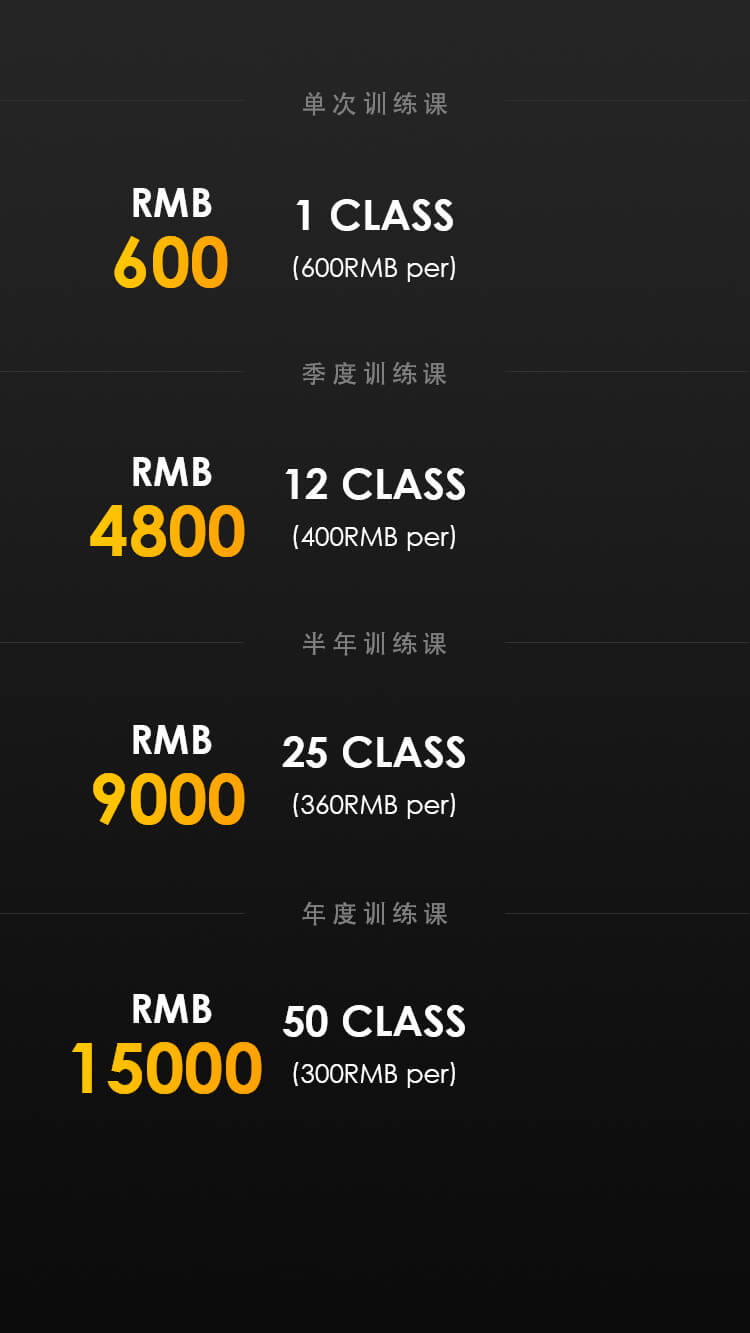
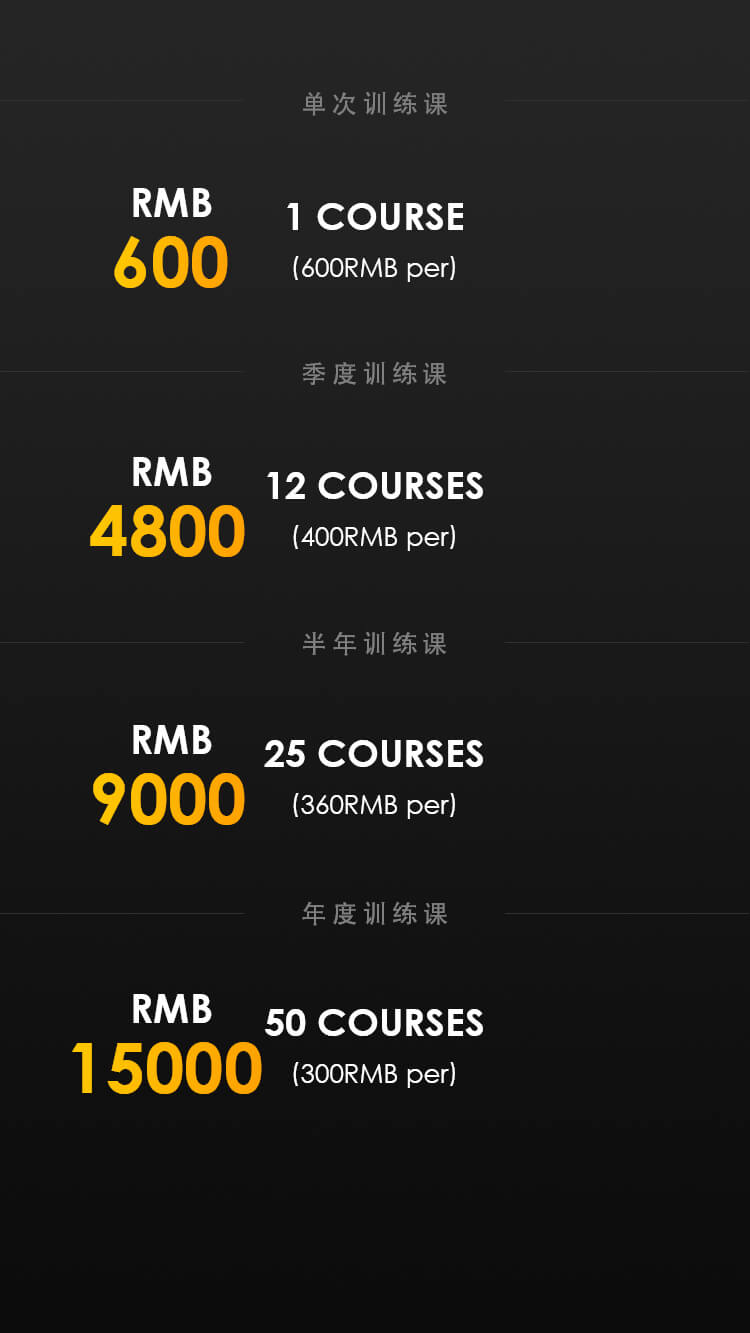
PCWeb

diff --git a/PCweb/20170817/index.html b/PCweb/20170817/index.html
@@ -179,12 +179,12 @@ if(!cv.getContext){
 							<div class="price">
 								<img src="images/600.png">
 							</div>
-							<div class="price-btn">
+							<div class="price-btn login">
 								APPLY
 							</div>
 						</div>
 						<div class="price-bottom">
-							1 CLASS(600RMB per)
+							1 COURSE(600RMB per)
 						</div>
 					</div>
 					<div class="course-item ci-2">
@@ -197,12 +197,12 @@ if(!cv.getContext){
 							<div class="price">
 								<img src="images/4800.png">
 							</div>
-							<div class="price-btn">
+							<div class="price-btn login">
 								APPLY
 							</div>
 						</div>
 						<div class="price-bottom">
-							12 CLASS(400RMB per)
+							12 COURSE(400RMB per)
 						</div>
 					</div>
 					<div class="course-item ci-3">
@@ -215,12 +215,12 @@ if(!cv.getContext){
 							<div class="price">
 								<img src="images/9000.png">
 							</div>
-							<div class="price-btn">
+							<div class="price-btn login">
 								APPLY
 							</div>
 						</div>
 						<div class="price-bottom">
-							25 CLASS(360RMB per)
+							25 COURSE(360RMB per)
 						</div>
 					</div>
 					<div class="course-item ci-4">
@@ -233,12 +233,12 @@ if(!cv.getContext){
 							<div class="price">
 								<img src="images/15000.png">
 							</div>
-							<div class="price-btn">
+							<div class="price-btn login">
 								APPLY
 							</div>
 						</div>
 						<div class="price-bottom">
-							50 CLASS(300RMB per)
+							50 COURSE(300RMB per)
 						</div>
 					</div>
 				</div>
@@ -417,9 +417,11 @@ if(!cv.getContext){
 				<div class="job-column">
 					<img src="images/job.png" class="img-set">
 				</div>
-				<div class="job-link-btn">
-					更多职位信息
-				</div>
+				<a href="http://mp.weixin.qq.com/s/rdeNVVxT6G7E5mMmqmum4w" target="_blank">
+					<div class="job-link-btn">
+						更多职位信息
+					</div>
+				</a>
 				<div class="note-msg">
 					更多职业机会请咨询ze@zplusfitness.com
 				</div>
@@ -498,7 +500,7 @@ if(!cv.getContext){
 	<div class="footer-wrapper">
 		<div class="left-icons">
 			<div class="footer-icon-item">
-				<a href="javascript:;">
+				<a href="javascript:;" class="login">
 					<img src="images/wechat.png">
 				</a>
 			</div>
@@ -508,12 +510,12 @@ if(!cv.getContext){
 				</a>
 			</div>
 			<div class="footer-icon-item">
-				<a href="javascript:;">
+				<a href="tel:02152381006">
 					<img src="images/tel.png">
 				</a>
 			</div>
 			<div class="footer-icon-item">
-				<a href="javascript:;">
+				<a href="mailto:ze@zplusfitness.com">
 					<img src="images/mail.png">
 				</a>
 			</div>
@@ -524,7 +526,7 @@ if(!cv.getContext){
 					ABOUT ZE
 				</div>
 				<div class="cn-item">
-					<a href="javascript:;">Z PLUS Fitness</a>
+					<a href="http://www.zplusfitness.com" target="_blank">Z PLUS Fitness</a>
 				</div>
 				<div class="cn-item">
 					<a href="javascript:;">一普学院</a>
@@ -535,7 +537,7 @@ if(!cv.getContext){
 					MEMBERSHIP SERVICE
 				</div>
 				<div class="cn-item">
-					<a href="javascript:;">会员登录</a>
+					<a href="javascript:;" class="login">会员登录</a>
 				</div>
 			</div>
 			<div class="footer-msg-column">
@@ -543,7 +545,7 @@ if(!cv.getContext){
 					CUSTOMER SERVICE
 				</div>
 				<div class="cn-item">
-					<a href="javascript:;">联系客服</a>
+					<a href="tel:02152381006">联系客服</a>
 				</div>
 				<div class="cn-item">
 					<a href="javascript:;">投诉与建议</a>
@@ -554,13 +556,13 @@ if(!cv.getContext){
 					CAREER IN ZE SPEED
 				</div>
 				<div class="cn-item">
-					<a href="javascript:;">招聘信息</a>
+					<a href="http://mp.weixin.qq.com/s/rdeNVVxT6G7E5mMmqmum4w" target="_blank">招聘信息</a>
 				</div>
 			</div>
 		</div>
 	</div>
 	<div class="cpr">
-		©2017 <a href="#">ZE SPEED</a> All Rights Reserved.
+		©2017 <a href="index.html" target="_blank">ZE SPEED</a> All Rights Reserved.
 	</div>
 </div>
 
@@ -568,7 +570,7 @@ if(!cv.getContext){
 	<div class="QRwrapper">
 		<img src="images/QRcode.jpg">
 		<div class="QRtext">
-			扫码预约
+			请扫码获取更多信息
 		</div>
 		<div class="Iknow">
 			我知道了

diff --git a/PCweb/20170817/H5/index.html b/PCweb/20170817/H5/index.html
@@ -92,16 +92,16 @@ if(window.innerWidth > 800){
 				<img src="" data-link="images/4-1.jpg">
 				<div class="course-btn-items">
 					<div class="items-wrapper">
-						<div class="course-btn-item">
+						<div class="course-btn-item code">
 							APPLY
 						</div>
-						<div class="course-btn-item">
+						<div class="course-btn-item code">
 							APPLY
 						</div>
-						<div class="course-btn-item">
+						<div class="course-btn-item code">
 							APPLY
 						</div>
-						<div class="course-btn-item">
+						<div class="course-btn-item code">
 							APPLY
 						</div>
 					</div>
@@ -166,12 +166,12 @@ if(window.innerWidth > 800){
 						<img src="" data-link="images/m3.png">
 					</div>
 				</a>
-				<a href="https://36kr.com/p/5074364.html?from=timeline&isappinstalled=0">
+				<a href="http://www.iqiyi.com/w_19rtq1890x.html?dummy=&wx_uid1=wxidoG0a9jtHPnG1f7lLF7DCr8GcMB7s&wx_uid2=wxidoG0a9jo1mEOscfW88o6bm-TowX4Q">
 					<div class="media-item">
 						<img src="" data-link="images/m4.png">
 					</div>
 				</a>
-				<a href="http://www.iqiyi.com/w_19rtq1890x.html?dummy=&wx_uid1=wxidoG0a9jtHPnG1f7lLF7DCr8GcMB7s&wx_uid2=wxidoG0a9jo1mEOscfW88o6bm-TowX4Q">
+				<a href="https://36kr.com/p/5074364.html?from=timeline&isappinstalled=0">
 					<div class="media-item">
 						<img src="" data-link="images/m5.png">
 					</div>
@@ -186,7 +186,7 @@ if(window.innerWidth > 800){
 	</div>
 	<div class="column column-8" id="column-8">
 		<img src="" data-link="images/8.jpg">
-		<a href="">
+		<a href="http://mp.weixin.qq.com/s/rdeNVVxT6G7E5mMmqmum4w">
 			<div class="job-btn">
 				更多职位
 			</div>
@@ -194,6 +194,50 @@ if(window.innerWidth > 800){
 	</div>
 	<div class="column column-9" id="column-9">
 		<img src="" data-link="images/9.jpg">
+		<div class="footer-link-box">
+			<div class="text-links">
+				<div class="text-items">
+					<a href="http://mp.weixin.qq.com/s/rdeNVVxT6G7E5mMmqmum4w">
+						<div class="text-item"></div>
+					</a>
+				</div>
+				<div class="text-items">
+					<a href="javascript:;">
+						<div class="text-item text-item-right code"></div>
+					</a>
+				</div>
+				<div class="text-items">
+					<a href="tel:02152381006">
+						<div class="text-item"></div>
+					</a>
+					<a href="javascript:;">
+						<div class="text-item text-item-btm"></div>
+					</a>
+				</div>
+				<div class="text-items">
+					<a href="http://www.zplusfitness.com">
+						<div class="text-item text-item-right"></div>
+					</a>
+					<a href="javascript:;">
+						<div class="text-item text-item-btm text-item-right"></div>
+					</a>
+				</div>
+			</div>
+			<div class="icon-links">
+				<a href="javascript:;" class="code">
+					<div class="icon-item"></div>
+				</a>
+				<a href="http://weibo.com/u/6190746262?refer_flag=1001030101_">
+					<div class="icon-item"></div>
+				</a>
+				<a href="tel:02152381006">
+					<div class="icon-item"></div>
+				</a>
+				<a href="mailto:ze@zplusfitness.com">
+					<div class="icon-item last-item"></div>
+				</a>
+			</div>
+		</div>
 		<div class="map-box">
 			<div class="map-bg" id="map-bg">
 				<div class="map-set" id="map-set"></div>
@@ -271,7 +315,7 @@ if(window.innerWidth > 800){
 	<div class="QRwrapper">
 		<img src="../images/QRcode.jpg">
 		<div class="QRtext">
-			扫码预约
+			长按并扫描二维码进行跳转
 		</div>
 		<div class="Iknow">
 			我知道了

diff --git a/PCweb/20170817/H5/css/main.css b/PCweb/20170817/H5/css/main.css
@@ -503,6 +503,78 @@ header:after{
 	font-size: 0.22rem;
 }
 
+.footer-link-box{
+	position: absolute;
+	left: 0rem;
+	bottom: 0rem;
+	width: 100%;
+	height: 3.5rem;
+	z-index: 2;
+}
+
+.text-links{
+	position: relative;
+	height: auto;
+}
+
+.text-links:after{
+	clear: both;
+	content: "";
+	display: block;
+}
+
+.text-items{
+	position: relative;
+	height: 0.96rem;
+	float: left;
+	width: 50%;
+}
+
+.text-item{
+	position: relative;
+	height: 0.2rem;
+	width: 1.5rem;
+	margin: 0 auto;
+	margin-top: 0.32rem;
+}
+
+.text-item-right{
+	-webkit-transform:translate(-0.32rem,0rem);
+	transform:translate(-0.32rem,0rem);
+}
+
+.text-item-btm{
+	margin-top: 0.12rem;
+}
+
+.icon-links{
+	position: absolute;
+	left: 50%;
+	bottom: 0.4rem;
+	height: 1rem;
+	-webkit-transform: translate(-50%,0%);
+	transform: translate(-50%,0%);
+	width: 3rem;
+}
+
+.icon-links:after{
+	clear: both;
+	content: "";
+	display: block;
+}
+
+.icon-item{
+	position: relative;
+	width: 0.67rem;
+	height: 100%;
+	float: left;
+	margin-right: 0.1rem;
+}
+
+.last-item{
+	margin-right: 0rem;
+}
+
 /*loading*/
 .loading-container{
 	position: fixed;

diff --git a/PCweb/20170817/js/main.js b/PCweb/20170817/js/main.js
@@ -125,7 +125,7 @@ function loading(){
 			"-o-transform" : "translate3d("+per * 5.83+"px,0px,1px)",
 			"transform" : "translate3d("+per * 5.83+"px,0px,1px)"
 		});
-		$barEl.find(".num").html(per);
+		$barEl.find(".num").html(per * 0.2 >> 0);
 		if(per == 100){
 			setTimeout(function(){
 				loadEnd();
@@ -291,13 +291,18 @@ $('.close').on(click,function(e){
 });
 
 //qrcode
-$('.tec-link-btn').on(click,function(e){
+$('.login').on(click,function(e){
+	e.preventDefault();
+	e.stopPropagation();
 	$(".QRcode").fadeIn(300);
 });
 
 $(".QRcode").on(click,function(e){
 	$(this).fadeOut(300);
-	$('.close').trigger("click");
+});
+
+$('.Iknow').on(click,function(e){
+	$(".QRcode").trigger(click);
 });
 
 //滑动

diff --git a/PCweb/20170817/H5/js/main.js b/PCweb/20170817/H5/js/main.js
@@ -55,9 +55,9 @@ $('.back').on('tap',function(e){
 	$('.column-5').removeClass("detail-active");
 });
 
-/*$('.date').on('tap',function(e){
+$('.code').on('click',function(e){
 	$('.QRcode').show();
-});*/
+});
 
 $('.Iknow').on("click",function(e){
 	$('.QRcode').hide();
@@ -77,7 +77,7 @@ function progress(){
 
 	var p = ( count / len * 100 ) >> 0;
 
-	$('.num').html( p );
+	$('.num').html( p * 0.2 >> 0 );
 	$('.loading-logo').css({
 		'left' : p + "%"
 	});

diff --git a/PCweb/20170817/css/mouser.less b/PCweb/20170817/css/mouser.less
@@ -1998,6 +1998,10 @@ img{
 	.transform(-50%,-50%,1px);
 }
 
+.QRwrapper>img{
+	margin: 0 auto;
+}
+
 .QRtext{
 	.position-stand();
 	text-align: center;
